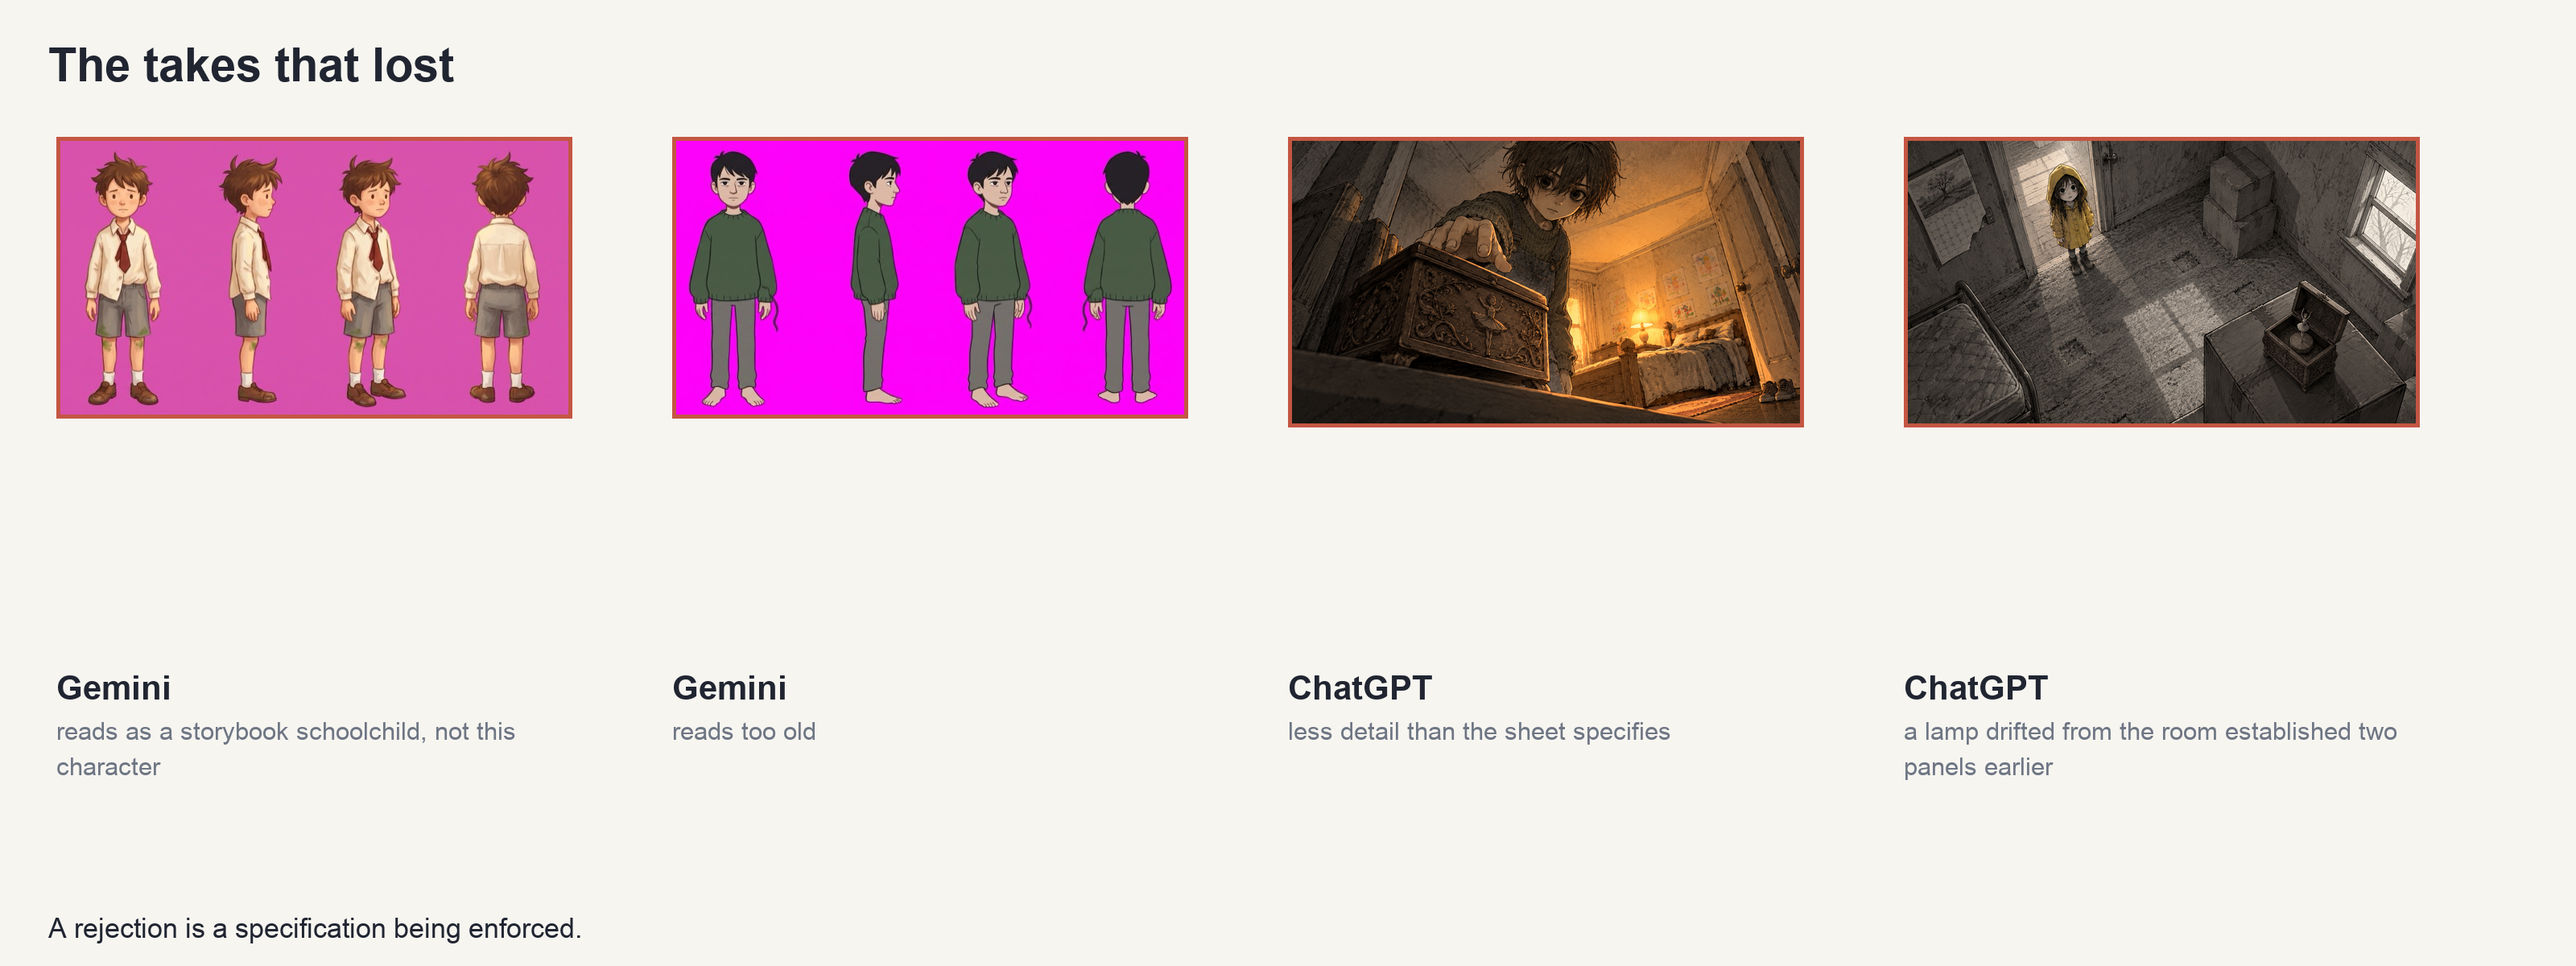
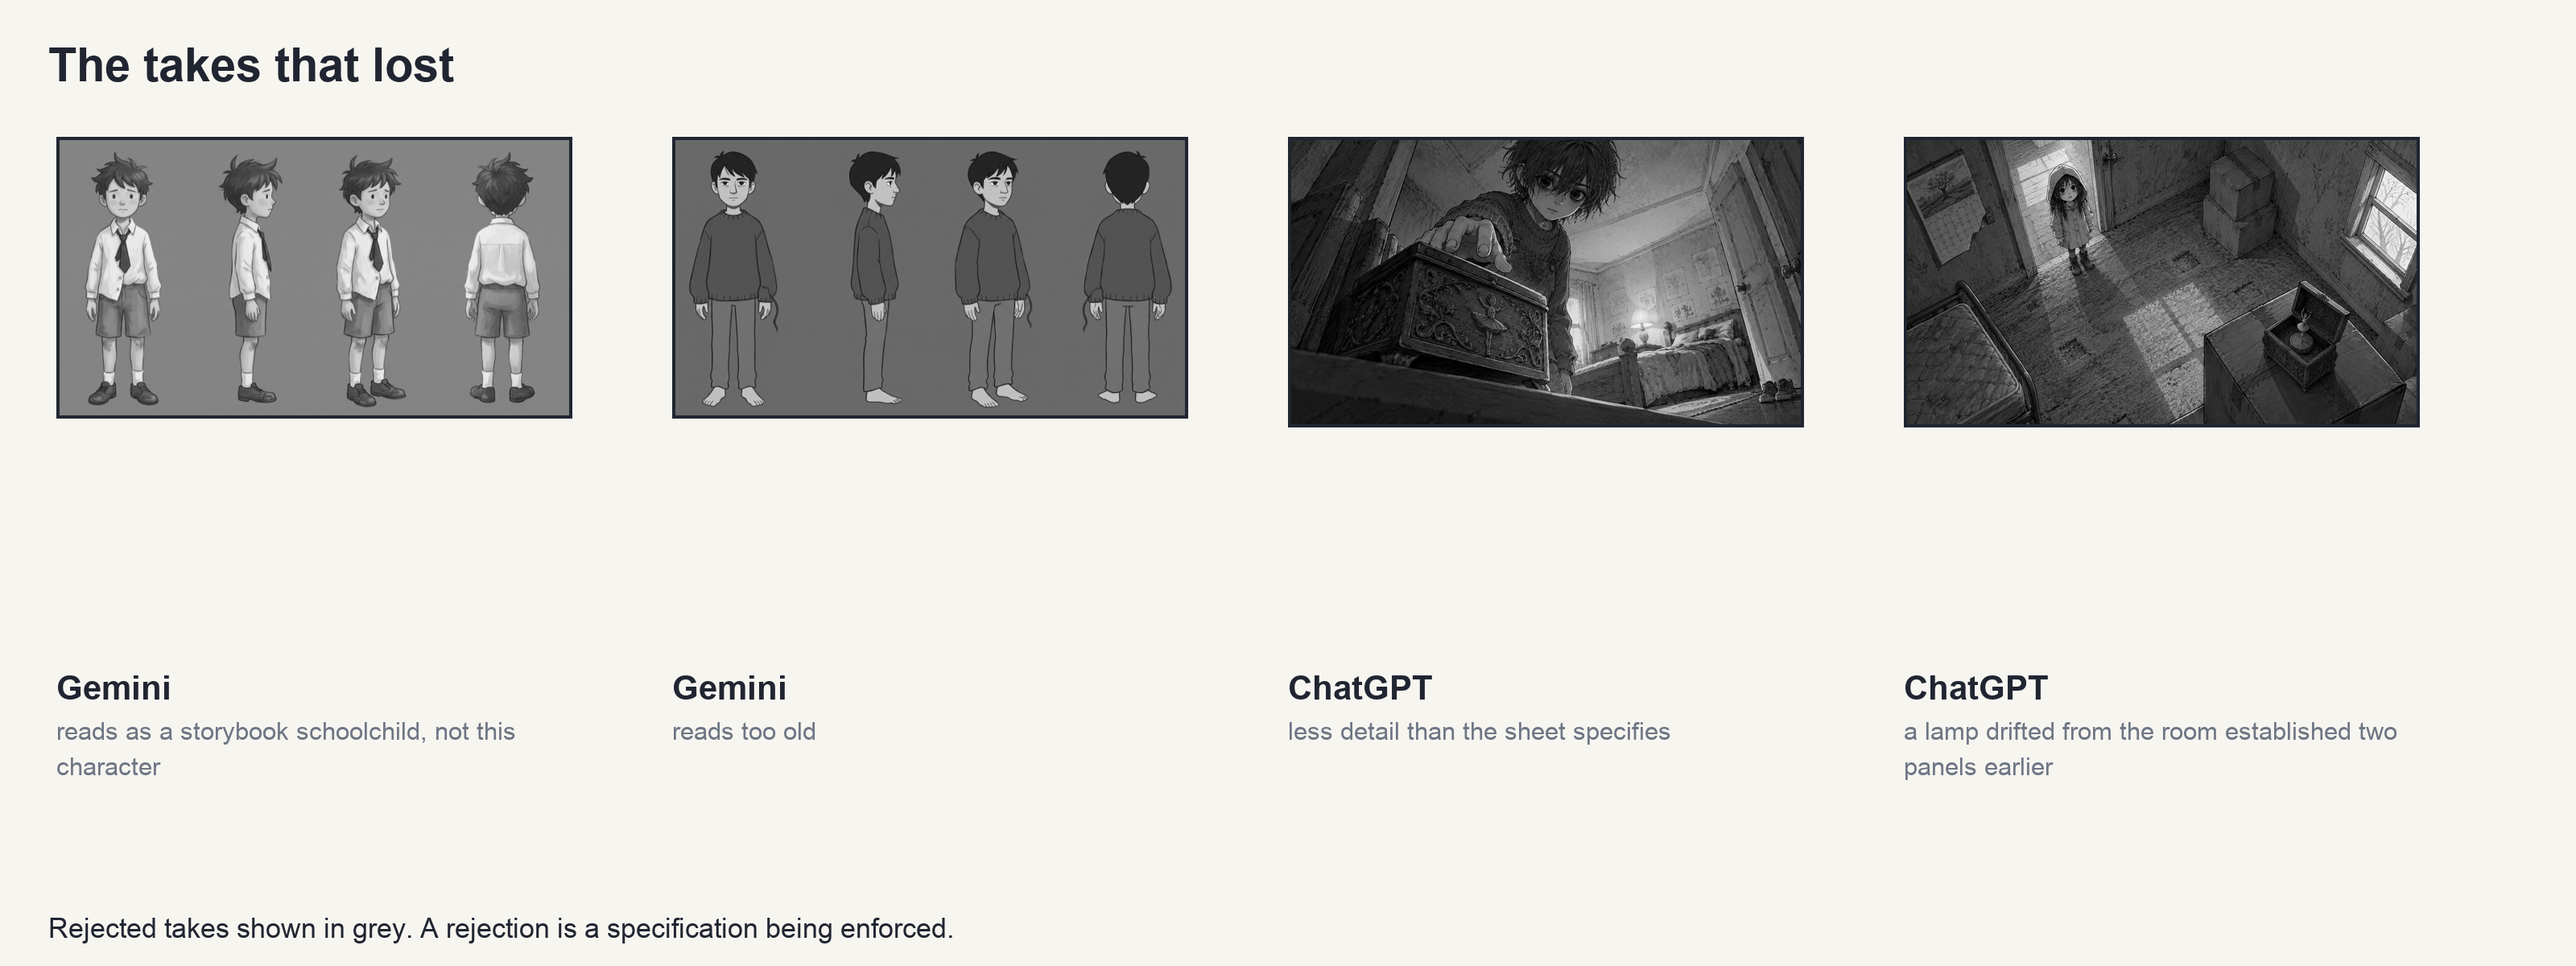
Give the README its film section
The brief asks the README to carry the final-film link. The film cannot
live in the repository — MP4s and anything over 25 MB are excluded by
the course rule — so it is identified here by filename and SHA-256 and
hosted in the course media storage, with the link and checksum filled in
once the master is uploaded.

The section also says plainly what the gameplay in the film is: a real
engine capture at native 4K carrying the game's own audio, labelled on
screen as a scripted-input run, not a reconstruction.

diff --git a/youtube/claude-liam-houseghost-gamedev/TYPECHECK.md b/youtube/claude-liam-houseghost-gamedev/TYPECHECK.md
@@ -1,17 +1,8 @@
 # TYPECHECK.md — GATE T
 
-Reel: `claude-liam-houseghost-gamedev`  |  Checked: 2026-10-07T22:23  |  Overall: **FAIL**  |  Beats checked: 25  |  FAILs: 9
+Reel: `claude-liam-houseghost-gamedev`  |  Checked: 2026-10-07T22:53  |  Overall: PASS  |  Beats checked: 25  |  FAILs: 0
 
 Spec: `skills/make/kerning/reference/type-spec.md` §8.  Floor: 1.9% frame-height.  Contrast: 4.5:1 WCAG.  Kern threshold: 3.5× expected advance.  Wordy budget: 2 elements.
-
-> **§8.7–§8.9 PLACEHOLDER / TRUNCATION — GATE BLOCKED:**
-> Every item below must be fixed before `./art run` or `./art final`.
-> Labels must be authored short phrases (2–5 words). Subs must add something real
-> (≤8 words) or be omitted. 'see narration' and truncated strings must not reach
-> a rendered surface.
-
-> - §8.10 [B00/greeting] ClaudeComposerAsk has empty or missing greeting — B00 needs '<world-language hello>, Liam', BHTF needs 'Your turn.', body beats need ≤4 words compressed from the beat narration
-> - §8.10 [B22/greeting] ClaudeComposerAsk has empty or missing greeting — B00 needs '<world-language hello>, Liam', BHTF needs 'Your turn.', body beats need ≤4 words compressed from the beat narration
 
 > **§8.10 REDUNDANCY (advisory — does not block cut):**
 > Narration should DISCUSS on-screen text, not recite it.
@@ -26,25 +17,25 @@ Spec: `skills/make/kerning/reference/type-spec.md` §8.  Floor: 1.9% frame-heigh
 |------|------|----------|---------------|--------|-----|
 | B00 | ? | light | min-size §8.1: hand-drawn pattern (ClaudeComposerAsk) — §8.1 hachure/crossbar fragments ar… | PASS | — |
 | B01 | ? | light | min-size §8.1: hand-drawn pattern (ClaudeVerdictArtifact) — §8.1 hachure/crossbar fragment… | PASS | — |
-| B02 | ? | dark | min-size §8.1: smallest text run 35px < floor 41px (1.9% of 2160px logical); likely a capt… | **FAIL** | Increase font_size in scenes.py or Remotion component |
-| B03 | ? | dark | min-size §8.1: min text-run height 41px >= floor 41px (individual-char fallback at 2×) | PASS | — |
+| B02 | ? | — | no video | SKIP | — |
+| B03 | ? | — | no video | SKIP | — |
 | B04 | ? | — | no-wordy-card §8.5: no prose payload found | PASS | — |
-| B05 | ? | dark | contrast §8.3: dark-frame fg/bg contrast 4.00:1 < 4.5:1 WCAG (fg≈(173, 177, 174), bg≈(72, … | **FAIL** | Use INK on cream; add backing plate under accent text |
+| B05 | ? | — | no video | SKIP | — |
 | B06 | ? | light | min-size §8.1: hand-drawn pattern (ClaudeVerdictArtifact) — §8.1 hachure/crossbar fragment… | PASS | — |
-| B07 | ? | dark | min-size §8.1: smallest text run 35px < floor 41px (1.9% of 2160px logical); likely a capt… | **FAIL** | Increase font_size in scenes.py or Remotion component |
+| B07 | ? | — | no video | SKIP | — |
 | B08 | ? | light | no-wordy-card §8.5: no prose payload found | PASS | — |
-| B08R | ? | dark | contrast §8.3: dark-frame fg/bg contrast 4.13:1 < 4.5:1 WCAG (fg≈(168, 173, 174), bg≈(68, … | **FAIL** | Use INK on cream; add backing plate under accent text |
+| B08R | ? | — | no video | SKIP | — |
 | B09 | ? | light | no-wordy-card §8.5: no prose payload found | PASS | — |
 | B10 | ? | light | no-wordy-card §8.5: no prose payload found | PASS | — |
 | B11 | ? | light | no-wordy-card §8.5: no prose payload found | PASS | — |
-| B12 | ? | light | contrast §8.3: terracotta accent #D97757 on cream 2.74:1 < 4.5:1 WCAG — accent text must s… | **FAIL** | Use INK on cream; add backing plate under accent text |
+| B12 | ? | light | no-wordy-card §8.5: no prose payload found | PASS | — |
 | B13 | ? | light | no-wordy-card §8.5: no prose payload found | PASS | — |
-| B14 | ? | dark | contrast §8.3: dark-frame fg/bg contrast 4.00:1 < 4.5:1 WCAG (fg≈(173, 177, 174), bg≈(72, … | **FAIL** | Use INK on cream; add backing plate under accent text |
+| B14 | ? | — | no video | SKIP | — |
 | B15 | ? | light | min-size §8.1: hand-drawn pattern (ClaudeVerdictArtifact) — §8.1 hachure/crossbar fragment… | PASS | — |
-| B16 | ? | dark | contrast §8.3: dark-frame fg/bg contrast 4.00:1 < 4.5:1 WCAG (fg≈(173, 177, 174), bg≈(72, … | **FAIL** | Use INK on cream; add backing plate under accent text |
+| B16 | ? | — | no video | SKIP | — |
 | B17 | ? | light | min-size §8.1: hand-drawn pattern (ClaudeVerdictArtifact) — §8.1 hachure/crossbar fragment… | PASS | — |
-| B18 | ? | light | no-wordy-card §8.5: 3 prose elements (15 words) > budget 2 (1 display + 1 label). Detail: … | **FAIL** | De-wordify → Manim diagram or Remotion build-on |
-| B19 | ? | light | no-wordy-card §8.5: 5 prose elements (39 words) > budget 2 (1 display + 1 label). Detail: … | **FAIL** | De-wordify → Manim diagram or Remotion build-on |
+| B18 | ? | light | no-wordy-card §8.5: pull-quote (3 words ≤ 12) | PASS | — |
+| B19 | ? | light | no-wordy-card §8.5: pull-quote (4 words ≤ 12) | PASS | — |
 | B20 | ? | light | min-size §8.1: hand-drawn pattern (ClaudeVerdictArtifact) — §8.1 hachure/crossbar fragment… | PASS | — |
 | B21 | ? | light | min-size §8.1: hand-drawn pattern (ClaudeVerdictArtifact) — §8.1 hachure/crossbar fragment… | PASS | — |
 | B22 | ? | light | min-size §8.1: hand-drawn pattern (ClaudeComposerAsk) — §8.1 hachure/crossbar fragments ar… | PASS | — |
@@ -54,67 +45,20 @@ Spec: `skills/make/kerning/reference/type-spec.md` §8.  Floor: 1.9% frame-heigh
 
 ## Failures requiring action before cut
 
-### SWEEP GATES §8.7–§8.12b (placeholder / truncation / code-card)
-
-- **§8.10 [B00/greeting] ClaudeComposerAsk has empty or missing greeting — B00 needs '<world-language hello>, Liam', BHTF needs 'Your turn.', body beats need ≤4 words compressed from the beat narration**
-- **§8.10 [B22/greeting] ClaudeComposerAsk has empty or missing greeting — B00 needs '<world-language hello>, Liam', BHTF needs 'Your turn.', body beats need ≤4 words compressed from the beat narration**
-
-**Fix:** §8.7–§8.9: rewrite flagged labels/subs to authored words. §8.12: replace prose-comment code beat with FormACard or ClaudeVerdictArtifact. §8.12b: give ClaudeCodeBeat a real filename title (e.g. 'analysis.py').
-
-### B02 (?)
-- **min-size §8.1**: smallest text run 35px < floor 41px (1.9% of 2160px logical); likely a caption/label too small — increase font_size or check if this is a data label needing §7 treatment
-- **contrast-local §8.3b**: per-blob contrast 1.99:1 < 3.0:1 — text unreadable on actual local background (blob@(2690,968)–(2770,1003) fg≈(198, 151, 84) bg≈(140, 100, 56)); move label off its background or change text color
-- **Fix:** Increase font_size in scenes.py or Remotion component
-
-### B05 (?)
-- **contrast §8.3**: dark-frame fg/bg contrast 4.00:1 < 4.5:1 WCAG (fg≈(173, 177, 174), bg≈(72, 76, 78)); check text colors on dark background beat
-- **Fix:** Use INK on cream; add backing plate under accent text
-
-### B07 (?)
-- **min-size §8.1**: smallest text run 35px < floor 41px (1.9% of 2160px logical); likely a caption/label too small — increase font_size or check if this is a data label needing §7 treatment
-- **contrast §8.3**: dark-frame fg/bg contrast 3.93:1 < 4.5:1 WCAG (fg≈(204, 158, 104), bg≈(80, 67, 57)); check text colors on dark background beat
-- **contrast-local §8.3b**: per-blob contrast 2.33:1 < 3.0:1 — text unreadable on actual local background (blob@(2649,1190)–(2719,1225) fg≈(190, 141, 90) bg≈(110, 86, 65)); move label off its background or change text color
-- **Fix:** Increase font_size in scenes.py or Remotion component
-
-### B08R (?)
-- **contrast §8.3**: dark-frame fg/bg contrast 4.13:1 < 4.5:1 WCAG (fg≈(168, 173, 174), bg≈(68, 71, 73)); check text colors on dark background beat
-- **Fix:** Use INK on cream; add backing plate under accent text
-
-### B12 (?)
-- **contrast §8.3**: terracotta accent #D97757 on cream 2.74:1 < 4.5:1 WCAG — accent text must switch to INK #3D3929 or carry a backing plate
-- **contrast-local §8.3b**: per-blob contrast 1.66:1 < 3.0:1 — text unreadable on actual local background (blob@(2994,1100)–(3099,1147) fg≈(90, 58, 32) bg≈(134, 87, 43)); move label off its background or change text color
-- **Fix:** Use INK on cream; add backing plate under accent text
-
-### B14 (?)
-- **contrast §8.3**: dark-frame fg/bg contrast 4.00:1 < 4.5:1 WCAG (fg≈(173, 177, 174), bg≈(72, 76, 78)); check text colors on dark background beat
-- **contrast-local §8.3b**: per-blob contrast 2.58:1 < 3.0:1 — text unreadable on actual local background (blob@(1889,495)–(1935,525) fg≈(136, 141, 151) bg≈(75, 76, 79)); move label off its background or change text color
-- **Fix:** Use INK on cream; add backing plate under accent text
-
-### B16 (?)
-- **contrast §8.3**: dark-frame fg/bg contrast 4.00:1 < 4.5:1 WCAG (fg≈(173, 177, 174), bg≈(72, 76, 78)); check text colors on dark background beat
-- **Fix:** Use INK on cream; add backing plate under accent text
-
-### B18 (?)
-- **no-wordy-card §8.5**: 3 prose elements (15 words) > budget 2 (1 display + 1 label). Detail: 3 output lines (15 words). De-wordify: rebuild as Manim process diagram or Remotion build-on; keep on-screen words to labels only.
-- **Fix:** De-wordify → Manim diagram or Remotion build-on
-
-### B19 (?)
-- **no-wordy-card §8.5**: 5 prose elements (39 words) > budget 2 (1 display + 1 label). Detail: 5 output lines (39 words). De-wordify: rebuild as Manim process diagram or Remotion build-on; keep on-screen words to labels only.
-- **Fix:** De-wordify → Manim diagram or Remotion build-on
-
+*None — GATE T PASS.*
 ---
 
 ## Check summary
 
 | Check | Beats checked | FAILs |
 |-------|---------------|-------|
-| no-wordy-card §8.5 | 9 | 2 |
-| min-size §8.1 | 24 | 2 |
-| overflow §8.2 | 24 | 0 |
-| contrast §8.3 | 24 | 6 |
-| contrast-local §8.3b | 24 | 4 |
-| bbox-overlap §8.6b | 24 | 0 |
-| card-clip §8.13 | 24 | 0 |
+| no-wordy-card §8.5 | 9 | 0 |
+| min-size §8.1 | 17 | 0 |
+| overflow §8.2 | 17 | 0 |
+| contrast §8.3 | 17 | 0 |
+| contrast-local §8.3b | 17 | 0 |
+| bbox-overlap §8.6b | 17 | 0 |
+| card-clip §8.13 | 17 | 0 |
 | kerning §8.4 | 0 | 0 |
 | redundancy §8.10 (advisory) | 6 | 4 (advisory — no exit effect) |
 

diff --git a/README.md b/README.md
@@ -68,6 +68,30 @@ The opening is read at your own pace: each line waits for a key, and **I** bring
 
 Every one is logged in [SOURCES.md](SOURCES.md) with its model, exact prompt, date, verdict and any hand edits. Rejected attempts are kept as thumbnails in `design/character/rejects/`.
 
+## The film
+
+**The House Is a Witness.** — a Brutalist `godot-gamedev` explainer tracing how this
+game's art, sound and music were designed, generated and wired into Godot.
+
+| | |
+|---|---|
+| File | `houseghost-the-room-that-lies-narasimha-v-4k.mp4` |
+| Link | _course media storage — added once uploaded_ |
+| SHA-256 | _added once uploaded_ |
+| Format | 3840×2160, 30 fps, narrated by Liam (Kokoro `am_onyx`, local) |
+| Source revision shown | the commit recorded in `SUBMISSION.md` |
+
+MP4 files and anything over 25 MB stay out of this repository by course rule, so the
+film lives in the course media storage and is identified here by filename and
+checksum.
+
+Everything behind the film is in `youtube/claude-liam-houseghost-gamedev/`: the
+script, the beat sheet with measured narration timings, the shot list, a fact check
+of every number spoken, the capture record with its hashes, and the input log of the
+scripted run it was captured from. The gameplay in the film is a real engine capture
+at native 4K with the game's own audio, labelled on screen as a scripted-input
+capture; it is not a reconstruction.
+
 ## Documents
 
 [CONCEPT.md](CONCEPT.md) · [STORYBOARD.md](STORYBOARD.md) · [CHARACTER-SHEET.md](CHARACTER-SHEET.md) · [CHANGE-BRIEF.md](CHANGE-BRIEF.md) · [SOURCES.md](SOURCES.md) · [FRICTIONAL.md](../FRICTIONAL.md)
